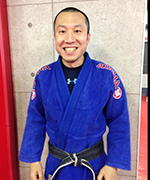
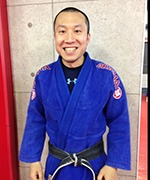
Update instructor photos and extensions

diff --git a/instructors.html b/instructors.html
@@ -156,7 +156,7 @@
         <!-- Instructor 2 -->
         <div class="instructor-card">
           <div class="instructor-img">
-            <img src="assets/images/murao.png" alt="村尾 誠一">
+            <img src="assets/images/murao.jpg" alt="村尾 誠一">
           </div>
           <div class="instructor-info">
             <div class="instructor-title">柔術コーチ</div>
@@ -179,7 +179,7 @@
         <!-- Instructor 3 (New) -->
         <div class="instructor-card">
           <div class="instructor-img">
-            <img src="assets/images/kakimoto.png" alt="柿本 洋一郎">
+            <img src="assets/images/kakimoto.jpg" alt="柿本 洋一郎">
           </div>
           <div class="instructor-info">
             <div class="instructor-title">柔術・No-Giコーチ</div>
